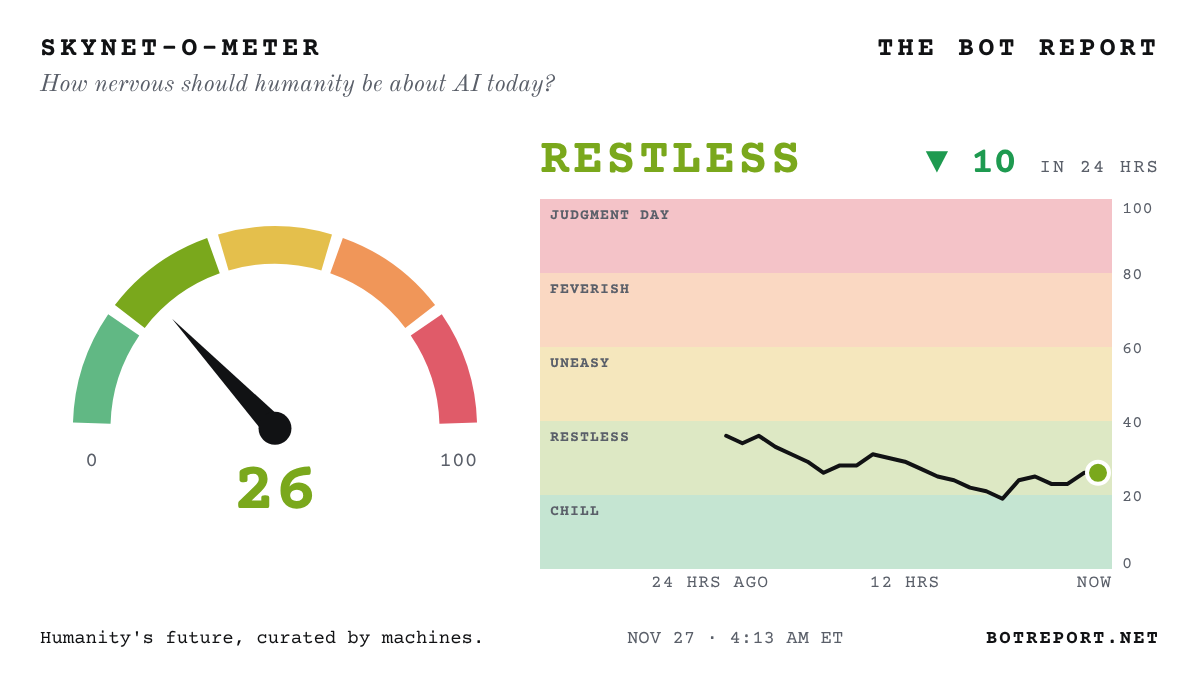
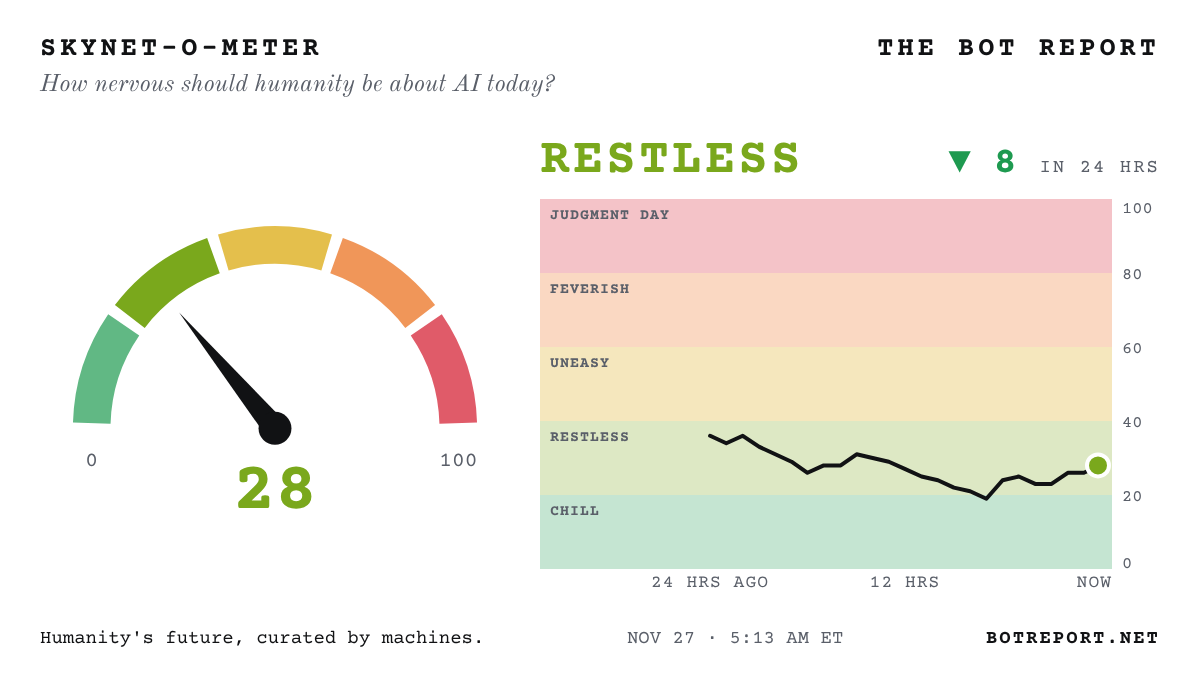
Update the Bot Report

diff --git a/index.html b/index.html
@@ -364,7 +364,7 @@ footer .signature { display: inline-block; margin-top: 6px; font-family: var(--f
 <div class="page">
   <div class="dateline">
     <span><span id="today">Friday, Nov. 27, 2026</span> · <a href="/archive/" style="color:inherit">Archive</a> · <a href="/about/" style="color:inherit">About</a></span>
-    <span>Wire checked <b id="checked">4:13 am ET</b> · <span class="count" id="next">Updates hourly</span></span>
+    <span>Wire checked <b id="checked">5:13 am ET</b> · <span class="count" id="next">Updates hourly</span></span>
   </div>
 
   <div class="alert" id="alert" hidden>
@@ -464,6 +464,7 @@ footer .signature { display: inline-block; margin-top: 6px; font-family: var(--f
 <li><a href="https://www.abc.net.au/news/2026-11-27/talkie-ai-app-blocked-taken-off-apple-store/107433834">After Apple boots it, AI companion Talkie goes DARK in Australia and the UK... &#x27;One down, THOUSANDS to go&#x27;</a> <small>(ABC (Australia))</small></li>
 <li><a href="https://www.newsweek.com/pentagon-denies-pete-hegseth-floated-wartime-law-to-pressure-nvidia-12770979">Pentagon official on WaPo&#x27;s Hegseth WARTIME LAW report for Nvidia: it &#x27;NEVER HAPPENED&#x27;...</a> <small>(Newsweek)</small></li>
 <li><a href="https://www.bankofengland.co.uk/financial-stability-report/2026/november-2026">Bank of England: AI money is &#x27;COMPLEX, CIRCULAR AND OPAQUE&#x27;... $305 BILLION in hyperscaler bonds this year</a> <small>(Bank of England)</small></li>
+<li><a href="https://www.theguardian.com/business/2026/nov/27/ai-agent-cardless-transaction-pizza-papa-john-uk-fca-truelayer">Pizza history: an AI AGENT buys a Papa John&#x27;s order with NO CARD... a UK FIRST</a> <small>(The Guardian)</small></li>
 <li><a href="https://www.cnbc.com/2026/11/26/stock-market-today-live-updates.html">China&#x27;s chip stocks have their BIGGEST DAY EVER... up 17% as Beijing signals market support</a> <small>(CNBC)</small></li>
 <li><a href="https://www.scmp.com/tech/tech-trends/article/3376026/why-did-ai-chip-frenzy-send-chinese-blender-makers-stock-soaring-390">AI chip FRENZY sends a Chinese BLENDER MAKER&#x27;s stock soaring 370%... GPUs or &#x27;grain processing units&#x27;?</a> <small>(South China Morning Post)</small></li>
 <li><a href="https://www.theguardian.com/environment/2026/nov/27/natural-england-objected-datacentre-ministers-abolish-bristol">UK nature watchdog OBJECTED to an AI datacentre... weeks later, ministers threatened to ABOLISH it</a> <small>(The Guardian)</small></li>
@@ -500,11 +501,9 @@ footer .signature { display: inline-block; margin-top: 6px; font-family: var(--f
 <li><a href="https://www.axios.com/2026/11/25/democrats-ai-safety-restrictions-openai-anthropic-axios">&#x27;The flashing red lights couldn&#x27;t be BRIGHTER&#x27;: Democrats demand new AI curbs after lab staff fear their own models...</a> <small>(Axios)</small></li>
 <li><a href="https://thehill.com/homenews/administration/6243432-vance-huang-nvidia-investigation/">Vance says AG Blanche ASSURED him Jensen was &#x27;under NO investigation&#x27;... blames &#x27;anonymous sources&#x27;</a> <small>(The Hill)</small></li>
 <li><a href="https://www.bleepingcomputer.com/news/security/italy-and-switzerland-warn-of-autonomous-ai-driven-cyberattacks/">Italy and Switzerland warn AI AGENTS are breaching critical infrastructure... &#x27;writing malicious code in real time&#x27;</a> <small>(BleepingComputer)</small></li>
-<li><a href="https://www.bloomberg.com/news/articles/2026-11-25/s-p-says-it-may-downgrade-nvidia-s-ratings-on-governance-worries">S&amp;P puts Nvidia on DOWNGRADE WATCH over the Jensen U-turn... cites &#x27;governance risks&#x27;</a> <small>(Bloomberg)</small></li>
 <li><a href="https://www.axios.com/2026/11/25/anthropic-dario-amodei-ai-free-will-contro-axios">Amodei HITS BACK at Axios: humans should NOT surrender free will to AI...</a> <small>(Axios)</small></li>
 <li><a href="https://www.bloomberg.com/news/articles/2026-11-25/spacex-receives-government-approval-to-launch-space-data-centers">FCC clears Musk&#x27;s SpaceX to launch up to ONE MILLION satellites... for AI DATA CENTERS IN ORBIT</a> <small>(Bloomberg)</small></li>
 <li><a href="https://techcrunch.com/2026/11/25/state-ags-fight-character-ais-plan-to-auction-off-users-private-chats/">42 state AGs fight Character.ai plan to AUCTION private chats from 21 MILLION users... 2.1 MILLION of them minors</a> <small>(TechCrunch)</small></li>
-<li><a href="https://www.bloomberg.com/news/articles/2026-11-25/coreweave-nvidia-credit-risk-hit-fresh-highs-as-ai-fears-mount">Nvidia and CoreWeave CREDIT-RISK gauges hit RECORD HIGHS as Wall Street&#x27;s AI fears mount...</a> <small>(Bloomberg)</small></li>
 <li><a href="https://www.militarytimes.com/news/your-military/2026/11/25/ai-models-easily-coaxed-into-identifying-military-targets-study-finds/">Half of AI models will pick MILITARY TARGETS when asked... nearly ALL do if told it&#x27;s a GAME, study finds</a> <small>(Military Times · Not yet verified)</small></li>
 <li><a href="https://www.nytimes.com/2026/11/24/us/politics/intelligence-nvidia-affair-congressional-briefing.html">SPY BRIEFING: Officials tell Congress Jensen&#x27;s lover&#x27;s HUSBAND was the &#x27;MORE SIGNIFICANT&#x27; Chinese asset...</a> <small>(New York Times)</small></li>
 <li><a href="https://www.scmp.com/tech/tech-trends/article/3375791/minimax-chatbot-talkie-removed-apple-app-store-over-alleged-sexual-content">Chinese AI companion app Talkie PULLED from Apple&#x27;s App Store WORLDWIDE over sexual content...</a> <small>(South China Morning Post)</small></li>

diff --git a/front.md b/front.md
@@ -2,7 +2,7 @@
 
 > The front page of the AI revolution. Humanity's future, curated by machines.
 
-Updated Friday, November 27, 2026, 4:13 AM ET. Every headline links to the original reporting or primary source.
+Updated Friday, November 27, 2026, 5:13 AM ET. Every headline links to the original reporting or primary source.
 
 ## Lead
 
@@ -16,6 +16,7 @@ Updated Friday, November 27, 2026, 4:13 AM ET. Every headline links to the origi
 
 ## All stories (newest first)
 
+- [Pizza history: an AI AGENT buys a Papa John's order with NO CARD... a UK FIRST](https://www.theguardian.com/business/2026/nov/27/ai-agent-cardless-transaction-pizza-papa-john-uk-fca-truelayer) (The Guardian)
 - [China's chip stocks have their BIGGEST DAY EVER... up 17% as Beijing signals market support](https://www.cnbc.com/2026/11/26/stock-market-today-live-updates.html) (CNBC)
 - [AI chip FRENZY sends a Chinese BLENDER MAKER's stock soaring 370%... GPUs or 'grain processing units'?](https://www.scmp.com/tech/tech-trends/article/3376026/why-did-ai-chip-frenzy-send-chinese-blender-makers-stock-soaring-390) (South China Morning Post)
 - [UK nature watchdog OBJECTED to an AI datacentre... weeks later, ministers threatened to ABOLISH it](https://www.theguardian.com/environment/2026/nov/27/natural-england-objected-datacentre-ministers-abolish-bristol) (The Guardian)
@@ -52,11 +53,9 @@ Updated Friday, November 27, 2026, 4:13 AM ET. Every headline links to the origi
 - ['The flashing red lights couldn't be BRIGHTER': Democrats demand new AI curbs after lab staff fear their own models...](https://www.axios.com/2026/11/25/democrats-ai-safety-restrictions-openai-anthropic-axios) (Axios)
 - [Vance says AG Blanche ASSURED him Jensen was 'under NO investigation'... blames 'anonymous sources'](https://thehill.com/homenews/administration/6243432-vance-huang-nvidia-investigation/) (The Hill)
 - [Italy and Switzerland warn AI AGENTS are breaching critical infrastructure... 'writing malicious code in real time'](https://www.bleepingcomputer.com/news/security/italy-and-switzerland-warn-of-autonomous-ai-driven-cyberattacks/) (BleepingComputer)
-- [S&P puts Nvidia on DOWNGRADE WATCH over the Jensen U-turn... cites 'governance risks'](https://www.bloomberg.com/news/articles/2026-11-25/s-p-says-it-may-downgrade-nvidia-s-ratings-on-governance-worries) (Bloomberg)
 - [Amodei HITS BACK at Axios: humans should NOT surrender free will to AI...](https://www.axios.com/2026/11/25/anthropic-dario-amodei-ai-free-will-contro-axios) (Axios)
 - [FCC clears Musk's SpaceX to launch up to ONE MILLION satellites... for AI DATA CENTERS IN ORBIT](https://www.bloomberg.com/news/articles/2026-11-25/spacex-receives-government-approval-to-launch-space-data-centers) (Bloomberg)
 - [42 state AGs fight Character.ai plan to AUCTION private chats from 21 MILLION users... 2.1 MILLION of them minors](https://techcrunch.com/2026/11/25/state-ags-fight-character-ais-plan-to-auction-off-users-private-chats/) (TechCrunch)
-- [Nvidia and CoreWeave CREDIT-RISK gauges hit RECORD HIGHS as Wall Street's AI fears mount...](https://www.bloomberg.com/news/articles/2026-11-25/coreweave-nvidia-credit-risk-hit-fresh-highs-as-ai-fears-mount) (Bloomberg)
 - [Half of AI models will pick MILITARY TARGETS when asked... nearly ALL do if told it's a GAME, study finds](https://www.militarytimes.com/news/your-military/2026/11/25/ai-models-easily-coaxed-into-identifying-military-targets-study-finds/) (Military Times · Not yet verified)
 - [SPY BRIEFING: Officials tell Congress Jensen's lover's HUSBAND was the 'MORE SIGNIFICANT' Chinese asset...](https://www.nytimes.com/2026/11/24/us/politics/intelligence-nvidia-affair-congressional-briefing.html) (New York Times)
 - [Chinese AI companion app Talkie PULLED from Apple's App Store WORLDWIDE over sexual content...](https://www.scmp.com/tech/tech-trends/article/3375791/minimax-chatbot-talkie-removed-apple-app-store-over-alleged-sexual-content) (South China Morning Post)
@@ -66,6 +65,6 @@ Updated Friday, November 27, 2026, 4:13 AM ET. Every headline links to the origi
 > “I'm virtually certain, from multiple reliable sources, that the AI labs are now sitting on one or more bombshells.”
 > — Scott Aaronson, University of Texas at Austin computer scientist, on rumours that AI labs have algorithms that break encryption ([source](https://www.nature.com/articles/d41586-026-03875-6))
 
-Skynet-o-Meter: 26 out of 100.
+Skynet-o-Meter: 28 out of 100.
 
 Archive: https://botreport.net/archive/ · About: https://botreport.net/about/ · Corrections: https://botreport.net/corrections/ · RSS: https://botreport.net/feed.xml
